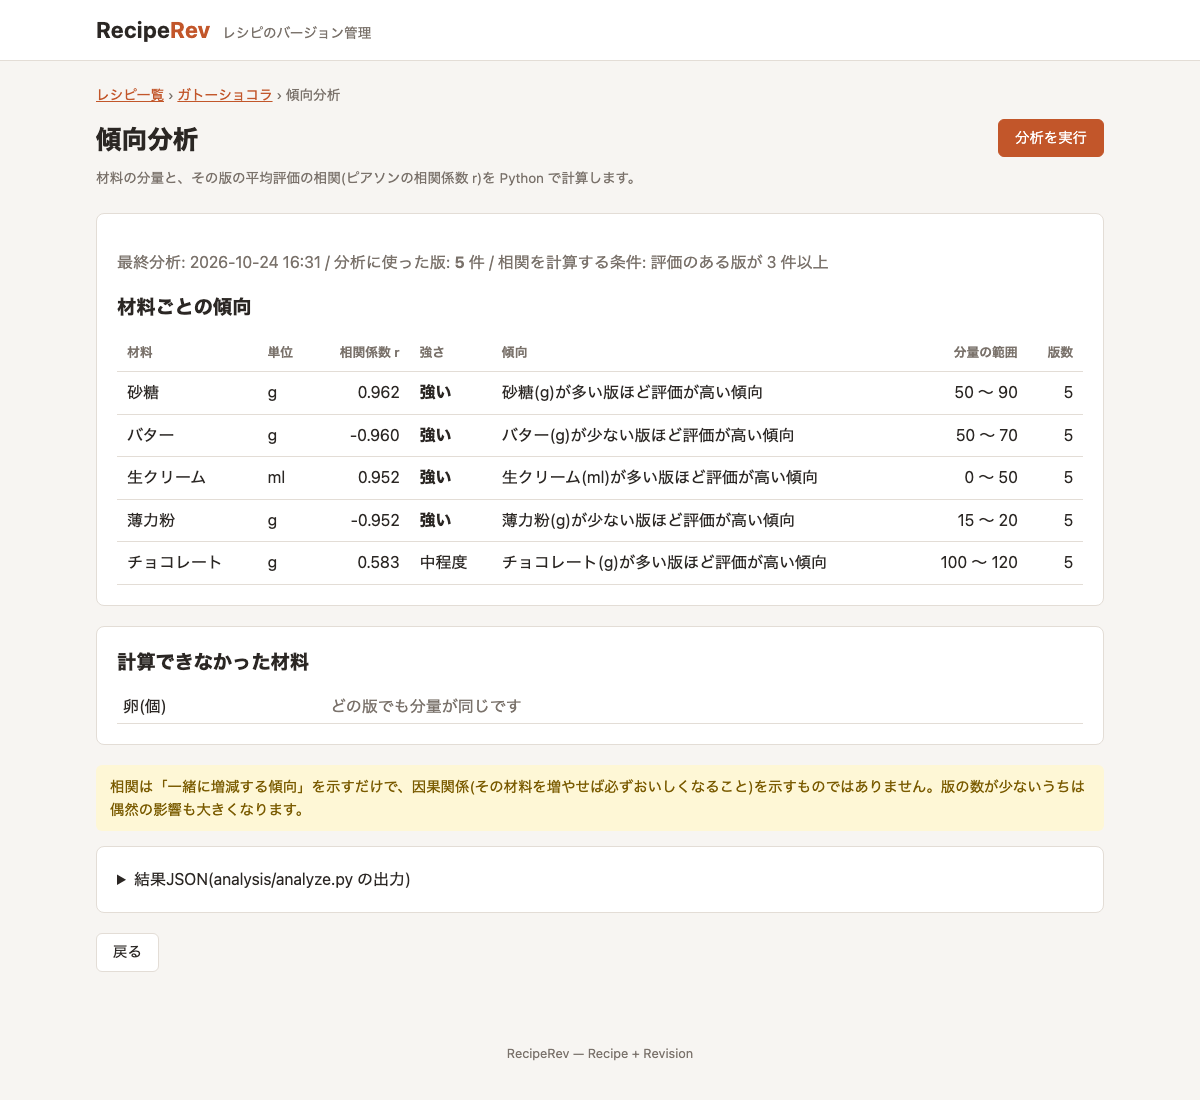
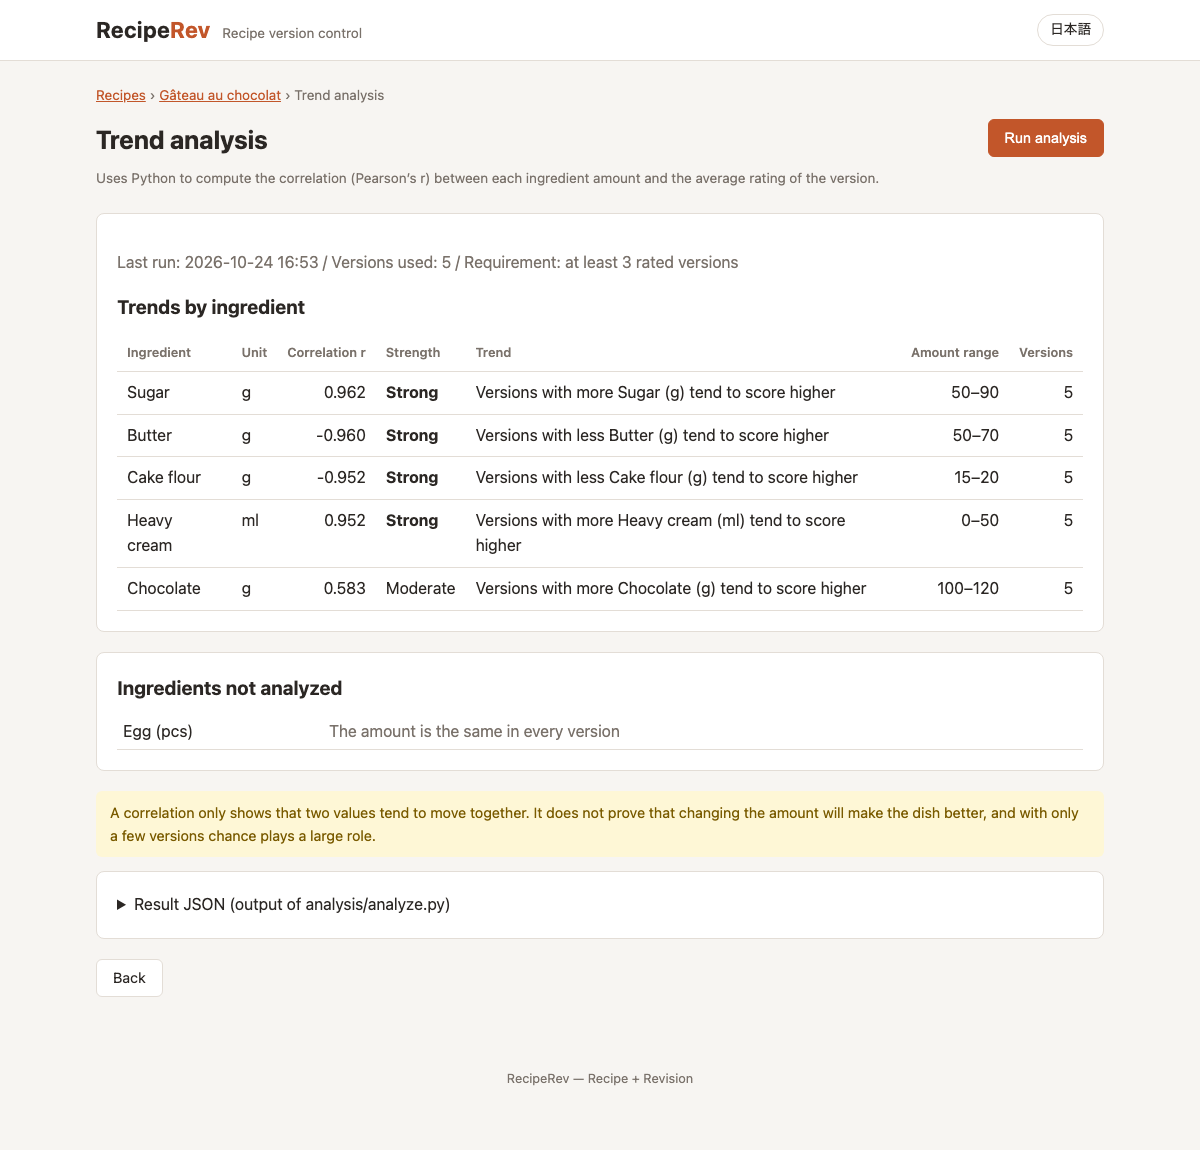
docs: document language switch and add Japanese screenshots

diff --git a/README.ja.md b/README.ja.md
@@ -4,7 +4,7 @@
 
 **RecipeRev**(Recipe + Revision)は、レシピのバージョン管理Webアプリです。レシピを調整するたびに新しい版を記録し、任意の2版を並べて比較し、調理結果を記録して「一番おいしい配合」を探せます。
 
-![レシピ詳細: 決定版・評価推移・版履歴](docs/images/recipe-detail.png)
+![レシピ詳細: 決定版・評価推移・版履歴](docs/images/ja/recipe-detail.png)
 
 ## コンセプト
 
@@ -29,16 +29,17 @@
 - **調理ログ**: 調理日、評価(1〜5)、味メモ、写真(1枚)を版に紐づけて記録。下書きの版は自動で試作中になる
 - **評価推移グラフ**: 版ごとの平均評価を Chart.js の折れ線グラフで表示(決定版を強調し、ログのない版は線を切る)
 - **傾向分析**: Pythonスクリプトで材料の分量と評価の相関を分析し(例: 「砂糖が多い版ほど高評価」)、結果を画面に表示
+- **英語・日本語の切り替え**: 画面は英語が既定で、ヘッダーのボタンで日本語に切り替えられる(Cookie に保存)。画面の文言・入力エラー・エラーメッセージはすべて `messages.properties` / `messages_ja.properties` に置いている
 
 | 版比較(差分) | 傾向分析 |
 | --- | --- |
-| ![版比較](docs/images/diff.png) | ![傾向分析](docs/images/analysis.png) |
+| ![版比較](docs/images/ja/diff.png) | ![傾向分析](docs/images/ja/analysis.png) |
 
 ## 技術スタック
 
 | 領域 | 技術 |
 | --- | --- |
-| バックエンド | Java 21, Spring Boot 3.5, Spring MVC, Spring Data JPA, JdbcClient, Bean Validation, Flyway, Maven |
+| バックエンド | Java 21, Spring Boot 3.5, Spring MVC, Spring Data JPA, JdbcClient, Bean Validation, Flyway, MessageSource(多言語対応), Maven |
 | フロントエンド | Thymeleaf, 素のJavaScript, Chart.js 4, HTML/CSS |
 | データベース | MySQL 8.4(Docker Compose) |
 | 分析 | Python 3.9以上 + pandas(`analysis/`) |
@@ -61,6 +62,7 @@
 - 業務ルールは、ドメイン/サービスのコードと DB の制約の2か所で守る
 - 入力検証はBean Validation。例外は `@ControllerAdvice`(HTML)と `@RestControllerAdvice`(ProblemDetail の JSON)で集約
 - Python分析はアプリから疎結合: Java が CSV を書き出し、スクリプトをバッチとして実行し、出力された JSON を読む
+- 多言語対応: `CookieLocaleResolver`(既定は英語。ブラウザの `Accept-Language` は見ない)+ `LocaleChangeInterceptor`(`?lang=ja` / `?lang=en`)。例外は文言ではなく「メッセージキー + 引数」(`MessageSourceResolvable`)を持ち、表示する時点で利用者の言語に変換する
 
 ## データベース
 
@@ -102,9 +104,11 @@ docker compose up -d
 
 # サンプルデータ付きで起動する場合(レシピ2件、版7件、調理ログ)
 ./mvnw spring-boot:run -Dspring-boot.run.profiles=demo
+# サンプルデータを日本語にする場合
+./mvnw spring-boot:run -Dspring-boot.run.profiles=demo -Dspring-boot.run.arguments=--reciperev.demo.locale=ja
 ```
 
-起動後、http://localhost:8080 を開いてください。
+起動後、http://localhost:8080 を開いてください。画面は英語で表示されます。右上の「日本語」ボタンで日本語に切り替えられます。
 
 - コマンドはリポジトリ直下で実行してください。写真は `uploads/`、分析ファイルは `analysis/output/` に、そこからの相対パスで保存されます。
 - DB の接続設定の初期値は `docker-compose.yml` と同じです。変更する場合は `.env.example` を `.env` にコピーし(Docker Compose が読み込みます)、アプリにも同じ環境変数を設定してください。
@@ -112,7 +116,7 @@ docker compose up -d
 ### テストの実行
 
 ```bash
-./mvnw test                                          # Java 71件(Testcontainers を使うため Docker が必要)
+./mvnw test                                          # Java 77件(Testcontainers を使うため Docker が必要)
 python3 -m unittest discover -s analysis/tests -v    # Python 10件
 ```
 
@@ -129,11 +133,12 @@ Java-RecipeRev-App/
 │   │   ├── repository/      # Spring Data JPA と JdbcClient の SQL
 │   │   ├── domain/          # エンティティ、値オブジェクト、差分モデル
 │   │   ├── dto/             # フォーム、画面表示用のモデル
-│   │   ├── config/          # 型付きの設定値、デモデータ
+│   │   ├── config/          # 型付きの設定値、多言語対応(ロケール)、デモデータ
 │   │   └── exception/
 │   ├── main/resources/
 │   │   ├── db/migration/    # Flyway の SQL
 │   │   ├── templates/       # Thymeleaf
+│   │   ├── messages*.properties  # 画面の文言(英語が既定 / 日本語)
 │   │   └── static/          # CSS、JavaScript
 │   └── test/java/           # 単体テスト・結合テスト
 ├── docker-compose.yml
@@ -160,6 +165,7 @@ Java-RecipeRev-App/
 - [x] Phase 4: 調理ログ(写真含む)、評価推移グラフ
 - [x] Phase 5: Python傾向分析の連携
 - [x] Phase 6: 単体・結合テスト、テスト仕様書、ドキュメント整備
+- [x] 英語を既定とした画面と日本語への切り替え
 
 今後の拡張案: Spring Security によるログインと2段階承認(申請者と承認者を分ける)、状態変更の履歴、材料マスタによる表記ゆれ対策、複数の材料を同時に考慮した回帰分析。
 

diff --git a/README.md b/README.md
@@ -29,6 +29,7 @@ This project is also a portfolio piece. It reproduces the typical shape of an in
 - **Cooking log**: record date, rating (1-5), taste notes, and one photo per attempt, linked to a version (a Draft version becomes Trial automatically)
 - **Rating chart**: average rating per version as a Chart.js line chart (Final highlighted, gaps for versions without logs)
 - **Trend analysis**: a Python script computes the correlation between ingredient quantities and ratings (for example, "versions with more sugar tend to score higher") and the result is shown in the UI
+- **English / Japanese UI**: English by default; the header button switches to Japanese (kept in a cookie). All screen text, validation and error messages live in `messages.properties` / `messages_ja.properties`
 
 | Diff view | Trend analysis |
 | --- | --- |
@@ -38,7 +39,7 @@ This project is also a portfolio piece. It reproduces the typical shape of an in
 
 | Area | Technology |
 | --- | --- |
-| Backend | Java 21, Spring Boot 3.5, Spring MVC, Spring Data JPA, JdbcClient, Bean Validation, Flyway, Maven |
+| Backend | Java 21, Spring Boot 3.5, Spring MVC, Spring Data JPA, JdbcClient, Bean Validation, Flyway, MessageSource (i18n), Maven |
 | Frontend | Thymeleaf, vanilla JavaScript, Chart.js 4, HTML/CSS |
 | Database | MySQL 8.4 (via Docker Compose) |
 | Analysis | Python 3.9+ with pandas (`analysis/`) |
@@ -61,6 +62,7 @@ Browser ──▶ controller ──▶ service ───────────
 - Business rules are enforced twice: in the domain/service code and by DB constraints
 - Input validation with Bean Validation; exceptions handled centrally via `@ControllerAdvice` (HTML) and `@RestControllerAdvice` (ProblemDetail JSON)
 - Python analysis is decoupled from the app: Java exports CSV, runs the script as a batch job, and reads JSON
+- i18n: `CookieLocaleResolver` (default English, ignores `Accept-Language`) + `LocaleChangeInterceptor` (`?lang=ja` / `?lang=en`). Exceptions carry a message key and arguments (`MessageSourceResolvable`) instead of text, so they are rendered in the viewer's language
 
 ## Database
 
@@ -102,9 +104,11 @@ docker compose up -d
 
 # Optional: start with sample data (2 recipes, 7 versions, cooking logs)
 ./mvnw spring-boot:run -Dspring-boot.run.profiles=demo
+# Sample data in Japanese
+./mvnw spring-boot:run -Dspring-boot.run.profiles=demo -Dspring-boot.run.arguments=--reciperev.demo.locale=ja
 ```
 
-Then open http://localhost:8080.
+Then open http://localhost:8080. Use the button at the top right to switch between English and 日本語.
 
 - Run the commands from the repository root: photos are saved to `uploads/` and analysis files to `analysis/output/` relative to it.
 - DB settings default to the values in `docker-compose.yml`. To change them, copy `.env.example` to `.env` (used by Docker Compose) and export the same variables for the app.
@@ -112,7 +116,7 @@ Then open http://localhost:8080.
 ### Run tests
 
 ```bash
-./mvnw test                                          # 71 Java tests (Docker required for Testcontainers)
+./mvnw test                                          # 77 Java tests (Docker required for Testcontainers)
 python3 -m unittest discover -s analysis/tests -v    # 10 Python tests
 ```
 
@@ -129,11 +133,12 @@ Java-RecipeRev-App/
 │   │   ├── repository/      # Spring Data JPA + JdbcClient SQL
 │   │   ├── domain/          # entities, value objects, diff model
 │   │   ├── dto/             # forms and read models
-│   │   ├── config/          # typed properties, demo data
+│   │   ├── config/          # typed properties, i18n (locale), demo data
 │   │   └── exception/
 │   ├── main/resources/
 │   │   ├── db/migration/    # Flyway SQL
 │   │   ├── templates/       # Thymeleaf
+│   │   ├── messages*.properties  # UI text (English default / Japanese)
 │   │   └── static/          # CSS, JavaScript
 │   └── test/java/           # unit + integration tests
 ├── docker-compose.yml
@@ -162,6 +167,7 @@ Java-RecipeRev-App/
 - [x] Phase 4: Cooking log (with photo), rating chart
 - [x] Phase 5: Python trend analysis integration
 - [x] Phase 6: Unit/integration tests, test specifications, documentation
+- [x] English-first UI with Japanese language switch
 
 Future ideas: login and two-step approval (requester / approver) with Spring Security, status change history, ingredient master for spelling variations, multi-variable regression.
 

diff --git a/docs/05_test_spec.md b/docs/05_test_spec.md
@@ -21,7 +21,7 @@
 
 | 種別 | 件数 | 結果 |
 |---|---|---|
-| Java(単体 + 結合) | 71 | すべて成功 |
+| Java(単体 + 結合) | 77 | すべて成功 |
 | Python | 10 | すべて成功 |
 
 ---
@@ -86,7 +86,7 @@
 | UT-PHOTO-04 | パストラバーサル | `../secret.txt` などを解決しない | 5章 セキュリティ |
 | UT-PHOTO-05 | 削除 | ファイルが消える。2回消しても例外にならない | F-09 |
 | UT-ANA-01 | CSV のエスケープ | カンマ・ダブルクォートを含む材料名を RFC 4180 形式で出力する | F-11 |
-| UT-ANA-02 | 傾向の文章 | 正の相関は「多い版ほど」、負の相関は「少ない版ほど」、弱い相関は「関係は見られません」 | F-11 |
+| UT-ANA-02 | 傾向の文章 | 正の相関は positive、負の相関は negative、弱い相関は weak のメッセージキーを選ぶ。分量の範囲は末尾の0を表示しない | F-11 |
 
 ### 2.5 版・承認フロー — `RecipeVersionIntegrationTest`(IT-VER)
 
@@ -131,7 +131,7 @@
 | ID | 観点 | 期待結果 | 画面 |
 |---|---|---|---|
 | IT-WEB-01 | トップと一覧 | `/` は `/recipes` へリダイレクト。一覧に登録したレシピが出る | SCR-01 |
-| IT-WEB-02 | 入力エラー | 200 で同じ画面に戻り、項目ごとのエラーメッセージを出す | SCR-02 |
+| IT-WEB-02 | 入力エラー | 200 で同じ画面に戻り、項目ごとのエラーメッセージを出す(既定の英語で確認) | SCR-02 |
 | IT-WEB-03 | 版の保存(PRG) | 版詳細へリダイレクトし、フラッシュメッセージを出す。変更なしならフォームに戻る | SCR-05 |
 | IT-WEB-04 | 差分画面 | `diff-changed` の行と変更前後の値を表示する。パラメータを省略すると from/to を補ってリダイレクトする | SCR-07 |
 | IT-WEB-05 | 決定版にする | フラッシュメッセージを出す。もう一度実行すると 400 とエラー画面 | SCR-06 |
@@ -139,7 +139,18 @@
 | IT-WEB-07 | JSON API | 版ごとの平均評価を JSON で返す。存在しないレシピは ProblemDetail の 404 | API |
 | IT-WEB-08 | 削除 | 一覧へリダイレクトし、以後の詳細は 404 | SCR-03 |
 
-### 2.9 Python — `analysis/tests/test_analyze.py`(PY)
+### 2.9 多言語対応 — `I18nIntegrationTest`(IT-I18N、MockMvc)
+
+| ID | 観点 | 期待結果 | 要件 |
+|---|---|---|---|
+| IT-I18N-01 | 既定の言語 | ブラウザが `Accept-Language: ja` を送っても英語で表示する。切り替えボタンは「日本語」 | F-12 |
+| IT-I18N-02 | 切り替え | `?lang=ja` で日本語になり、Cookie `reciperev-lang=ja` が保存される。`<html lang="ja">` | F-12 |
+| IT-I18N-03 | Cookie による維持 | 状態名(下書き/Draft)・版番号(第1版/v1)・JavaScript に渡す文言が言語ごとに切り替わる | F-12 |
+| IT-I18N-04 | 切り替えリンク | 今のページの URL とクエリ(from/to)を保ったまま `lang` だけを付け替える | F-12 |
+| IT-I18N-05 | サーバ側のメッセージ | 入力エラー・業務ルール違反(状態名の引数も翻訳される)・フラッシュ・API の ProblemDetail が利用者の言語になる | F-12 |
+| IT-I18N-06 | 不正な値 | `?lang=@@` は無視して英語のまま表示する | F-12 |
+
+### 2.10 Python — `analysis/tests/test_analyze.py`(PY)
 
 | ID | テストメソッド | 期待結果 |
 |---|---|---|
@@ -171,3 +182,5 @@
 | MT-06 | 傾向分析を実行 | 材料ごとの r・強さ・傾向の文章と、結果JSONが表示される | OK(curl + スクリーンショット) |
 | MT-07 | 画面幅 375px | 横スクロールが出ない。材料の入力欄がカード形式に組み替わる | OK(375px 幅の iframe でスクリーンショット) |
 | MT-08 | 6MB のファイルを送る | 「ファイルが大きすぎます」のエラー画面(400) | OK(curl で 400 を確認) |
+| MT-09 | 全画面を英語・日本語で開く | すべて 200(存在しない ID は 404)。英語の画面に日本語が残っていない(切り替えボタンと入力データを除く) | OK(curl で全11画面を確認) |
+| MT-10 | 右上の言語ボタンを押す | 同じ画面のまま言語が切り替わり、別の画面に移っても言語が保たれる | 未実施 |

diff --git a/docs/02_screens.md b/docs/02_screens.md
@@ -127,6 +127,7 @@ URLの `{id}` はレシピID、`{no}` は版番号、`{logId}` は調理ログID
 ---
 
 ## 5. 共通レイアウト
-- ヘッダー: アプリ名「RecipeRev」(→ SCR-01)、パンくずリスト(例: レシピ一覧 > カレー > 第3版)
+- ヘッダー: アプリ名「RecipeRev」(→ SCR-01)、パンくずリスト(例: レシピ一覧 > カレー > 第3版)、言語切り替えボタン(右上。英語表示中は「日本語」、日本語表示中は「English」)
+- 言語: 既定は英語。どの画面の URL にも `?lang=ja` / `?lang=en` を付けて切り替えられ、選んだ言語は Cookie(`reciperev-lang`)に1年間保存する。切り替えボタンは、今のページの URL とクエリを保ったまま `lang` だけを付け替える
 - フラッシュメッセージ: 更新が成功したときに画面上部へ表示する(例: 「第4版を作成しました」「第3版を決定版にしました(第2版は試作中に戻りました)」)
 - Thymeleaf の layout(fragment)でヘッダーとフッターを共通化する

diff --git a/final-checklist.md b/final-checklist.md
@@ -53,5 +53,6 @@ git push origin v1.0.0
 - [ ] MT-02: レシピ詳細の版履歴でラジオボタンを2つ選び、「選んだ2つの版を比較」で差分画面が開く
 - [ ] MT-03: 「この版を決定版にする」の確認ダイアログに「現在の決定版 第N版は試作中に戻ります」と出る
 - [ ] MT-04: 調理ログで写真を選ぶとプレビューが出る。5MB を超えるファイルを選ぶとその場で警告が出る
+- [ ] MT-10: 右上の「日本語」/「English」ボタンで、同じ画面のまま言語が切り替わる。別の画面に移っても言語が保たれる
 
 結果は [docs/05_test_spec.md](docs/05_test_spec.md) の 3章に反映してください。
